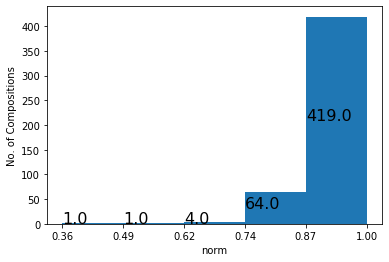
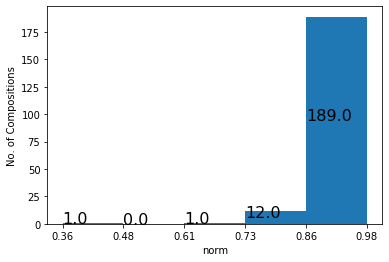
update 3_2 .md file from dev

diff --git a/3_Vocabularies/3_Lexical_and_Literary_Vocabularies.md b/3_Vocabularies/3_Lexical_and_Literary_Vocabularies.md
@@ -22,13 +22,13 @@ In order to do so we read the  [epsd2/literary][] and the [DCCLT][] datasets int
 
 From the two sets, which we call `lit_words_s` and `lexical_words_s` we eliminate all words that have not been lemmatized (unknown words or broken words). We will see in the next section that we will need unlemmatized words in a slightly more sophisticated analysis - but not here. Collections of unique elements can be visualized in a Venn diagram, that shows the two sets as two partly overlapping circles. The intersection of the two sets represents the overlap. This is done with the function `venn2` from the `matplotlib_venn` package, which allows us to select colors and define captions. The result looks like this:
 
-![venn diagram 1](viz/venn_1.png)
+<img src="viz/venn_1.png" alt="venn diagram 1" style="zoom:150%;" />
 
 The Old Babylonian lexical corpus currently has more than 4,000 distinct lemmas, of which almost 60% are shared with the literary corpus. The vocabulary of the literary corpus is only slightly larger. The number of items (lemmas) in both sets will change, because of ongoing improvements and additions in both the literary and the lexical corpus. The Venn diagram above is redrawn whenever Notebook 3_1 is run, and this will update the numbers.
 
 For a number of reasons, this is a very rough estimate and perhaps not exactly what we were looking for. A lexical entry like **udu diŋir-e gu₇-a**  (sheep eaten by a god) consists of three very common lemmas (**udu[sheep]N**, **diŋir[deity]N**, **gu[eat]V/t**). This lexical entry, therefore, will result in three matches, three correspondences between the lexical and literary vocabulary. But what about the lexical *entry*? Does the nominal phrase **udu diŋir-e gu₇-a** or, more precisely, the sequence of the lemmas **udu[sheep]N, diŋir[deity]N, gu[eat]V/t**) ever appear in a literary text? 
 
-## 	3.1.2 Lexical Entries in Literary Context
+### 	3.1.2 Lexical Entries in Literary Context
 
 In order to perform the comparison of lexical and literary vocabularies on the lexical *entry* level we first need to represent the data (lexical and literary) as lines, rather than as individual words. The line in a lexical text will become our unit of comparison by defining those as Multiple Word Expressions (or MWEs). Lines in literary texts will serve as boundaries, since we do not expect an MWE to continue from one line to the next. 
 
@@ -43,17 +43,17 @@ We can use this data to look through the literary compositions to see whether th
 
 Once this is done the lexical entries are treated the same: each space is replaced by an underscore. Now we have the same two sets of data in a slightly different representation and we can do essentially the same analysis as we did above by creating sets (called `lit_words_s2` and `lexical_words_s2`) and then visualize those sets in a Venn diagram: 
 
-![venn diagram 2](viz/venn_2.png)
+<img src="viz/venn_2.png" alt="venn diagram 2" style="zoom:150%;" />
 
 We see that this approach essentially doubles the number of unique elements on the lexical side; on the literary side the increase is much less drastic. It turns out that many of the lexical entries (more than 65%) never appear as such in the literary corpus.
 
-## 3.1.3. Add them Up
+### 3.1.3. Add them Up
 
 Finally we can add the two approaches discussed above into a single Venn diagram. There are words that appear as modifiers in lexical *entries* but never appear on their own in a lexical composition. Similarly, there are words in the literary corpus that occur in phrases known from the lexical corpus, but never outside of such phrases (we will see examples below). Such words, one may argue, potentially add to the intersection between the lexical and literary corpus, but are not represented in the second Venn diagram.
 
 In order to do so we create the *union* of the first lexical set (individual words) and the second one (lexical expressions), and the same for the literary corpus and then draw a new Venn diagram. The union of two sets is a new set, with all the unique elements from the two original sets. The union sets are called `lit_words_s3` and `lexical_words_s3`.
 
-![venn diagram 3](viz/venn_3.png)
+<img src="viz/venn_3.png" alt="venn diagram 3" style="zoom:150%;" />
 
 The new diagram shows some increase on both sides, and a little increase in overlap as well - but the change is not very dramatic.
 
@@ -103,13 +103,13 @@ In order to research the relationship between lexical and literary material in m
 
 Longer texts will have more vocabulary items (and Multiple Word Expressions) in common with the lexical corpus than shorter texts, but that does not mean much. For that reason we will look at measures of *lexical richness* and ask: are compositions that use a richer lexicon more likely to utilize lemmas found in the lexical corpus than compositions with a lower lexical richness rank? 
 
-This line of research has a pedigree that goes back to an article by M. Civil entitled: "Feeding Dumuzi's Sheep: the Lexicon as a Source of Literary Inspiration" (in *Language, Literature, and History: Philological and Historical Studies presented to Erica Reiner*, F. Rochberg, Ed. American Oriental Society, 1987). In this article, Civil argued that various Sumerian literary texts use enumeration, listing words from a particular semantic field, often with explanatory or interpretative notes. Compositions that include such sections are [*Nanše and the Birds*](http://etcsl.orinst.ox.ac.uk/cgi-bin/etcsl.cgi?text=c.4.14.3&display=Crit&charenc=gcirc#) (bird names), [*Home of the Fish*](http://etcsl.orinst.ox.ac.uk/cgi-bin/etcsl.cgi?text=c.5.9.1&display=Crit&charenc=gcirc#) (fish names), [*Dumuzid Inana W*](http://etcsl.orinst.ox.ac.uk/cgi-bin/etcsl.cgi?text=c.4.08.23&display=Crit&charenc=gcirc#) (plant names; this is the text edited by Civil in his 1987 article), *Ninurta's Fields* (field names), [*Išme-Dagan and Enlil's Chariot*](http://etcsl.orinst.ox.ac.uk/cgi-bin/etcsl.cgi?text=c.2.5.4.09&display=Crit&charenc=gcirc#) (names of chariot parts), *Lipit Eštar and the Plow* (names of parts of a plow), [*Šulgi R*](http://etcsl.orinst.ox.ac.uk/cgi-bin/etcsl.cgi?text=c.2.4.2.18&display=Crit&charenc=gcirc#) (boat parts), and [*Ninurta's Exploits*](http://etcsl.orinst.ox.ac.uk/cgi-bin/etcsl.cgi?text=c.1.6.2&display=Crit&charenc=gcirc#) (stone names). Each of the examples listed above addresses an area of the lexicon (birds, fish, field names, etc.) to which (part of) a lexical composition is specifically dedicated. Whether, in such cases, the source of literary inspiration was the Sumerian lexicon at large, or, more specifically, the particular lexical composition listing such names remains to be seen in each particular case. 
+This line of research has a pedigree that goes back to an article by M. Civil entitled: "Feeding Dumuzi's Sheep: the Lexicon as a Source of Literary Inspiration" (in *Language, Literature, and History: Philological and Historical Studies presented to Erica Reiner*, F. Rochberg, Ed. American Oriental Society, 1987). In this article, Civil argued that various Sumerian literary texts use enumeration, listing words from a particular semantic field, often with explanatory or interpretative notes. Compositions that include such sections are [*Nanše and the Birds*](http://etcsl.orinst.ox.ac.uk/cgi-bin/etcsl.cgi?text=c.4.14.3&display=Crit&charenc=gcirc#) (bird names), [*Home of the Fish*](http://etcsl.orinst.ox.ac.uk/cgi-bin/etcsl.cgi?text=c.5.9.1&display=Crit&charenc=gcirc#) (fish names), [*Dumuzid Inana W*](http://etcsl.orinst.ox.ac.uk/cgi-bin/etcsl.cgi?text=c.4.08.23&display=Crit&charenc=gcirc#) (plant names; this is the text edited by Civil in his 1987 article), *Ninurta's Fields* (field names), [*Išme-Dagan and Enlil's Chariot*](http://etcsl.orinst.ox.ac.uk/cgi-bin/etcsl.cgi?text=c.2.5.4.09&display=Crit&charenc=gcirc#) (names of chariot parts), *Lipit Eštar and the Plow* (names of parts of a plow), [*Šulgi R*](http://etcsl.orinst.ox.ac.uk/cgi-bin/etcsl.cgi?text=c.2.4.2.18&display=Crit&charenc=gcirc#) (boat parts), and [*Ninurta's Exploits*](http://etcsl.orinst.ox.ac.uk/cgi-bin/etcsl.cgi?text=c.1.6.2&display=Crit&charenc=gcirc#) (stone names). Each of the examples listed addresses an area of the lexicon (birds, fish, field names, etc.) to which (part of) a lexical composition is specifically dedicated. Whether, in such cases, the source of literary inspiration was the Sumerian lexicon at large, or, more specifically, the particular lexical composition listing such names remains to be seen in each particular case. 
 
 For our purposes, the approach will be somewhat more generalized. The vocabulary items that will be compared between the lexical and literary corpus are not restricted to one semantic field, but will include verbs, Noun - Verb expressions, and any other type of lexeme (or Multiple Word Expression) that we may encounter.
 
-In order to address these questions we will use a Document Term Matrix (DTM): a huge matrix, where each row represents a literary composition (Document) and each column represents a lemma (Term).
+In order to address these questions we will use a Document Term Matrix (DTM): a huge table, where each row represents a literary composition (Document) and each column represents a lemma (Term).
 
-In order to do so we will use the Pandas  `groupby()` and `aggregate()` commands again to represent each composition (lexical or literary) as one long string of lemmas.  We will use the data representation where lemmas in Multiple Word Expressions are connected by underscores, so that each MWE is treated as a unit.
+In order to do so we will use the Pandas  `groupby()` and `aggregate()` commands again to represent each literary composition as one long string of lemmas.  We will use the data representation where lemmas in Multiple Word Expressions are connected by underscores, so that each MWE is treated as a unit.
 
 Once we have the data represented this way we can use `Countvecorizer()` from the `sklearn` package to create the DTM. The `Countvectorizer()` essentially vectorizes a document by counting the number of times each word appears. In an artificial example we can vectorize the sentences (documents)
 
@@ -126,31 +126,31 @@ as follows:
 
 We can now say that sentence one is represented by the vector `[1, 1, 0, 1]` and sentence two by the vector `[1, 0, 1, 1]`. That means that we can apply vector operations and vector mathematics on these two sentences - for instance we can compute their cosine similarity (0.66). In real-world examples many slots in the matrix are 0 (there are many words in the corpus that do not appear in this particular document) and many slots are higher than 1 (a word that appears in a document is likely to appear more than once). Note that each *word* (or lemma) is now also characterized by a vector, represented by the numbers in a column.
 
-There are various types of DTMs to investigate in more complex ways the relationships between the lexical and the literary vocabulary. Instead of a full DTM, in which all occurrences of all words are represented, we will first build a *binary* DTM of the literary corpus (the [epsd2/literary][] corpus), using the lexical vocabulary. Our DTM will have one row for each *literary* composition (document) and one column for each lemma or expression attested in the Old Babylonian *lexical* corpus. Because this is a *binary* DTM, each cell has either 1 or 0, to indicate that the word/expression in question does or does not appear in that particular literary composition. How many times a lemma is attested in the composition is not indicated - only *whether* it appears.
+Instead of a full DTM, in which the frequency of each lemma in each document is  represented, we will use a *binary* DTM of the literary corpus (the [epsd2/literary][] corpus), using the lexical vocabulary. Our DTM will have one row for each literary composition (document) and one column for each lemma or expression attested in the Old Babylonian lexical corpus. Because this is a *binary* DTM, each cell has either 1 or 0, to indicate that the word/expression in question does or does not appear in that particular literary composition. How many times a lemma is attested in the composition is not indicated - only *whether* it appears.
 
 Because each column represents a word in the lexical corpus, there are many columns that have only zeros (lexical entries that do not occur in [epsd2/literary][]). In terms of the Venn diagrams discussed above, the zeros in our DTM represent the blue area to the right, the ones represent the middle area (intersection of the lexical and literary vocabulary); the yellow area (words in [epsd2/literary][] that do not appear in the Old Babylonian lexical corpus) is not represented in this DTM. 
-![venn diagram 3](viz/venn_3.png)
+<img src="viz/venn_3.png" alt="venn diagram 3" style="zoom:150%;" />
 
-The main difference between the Venn diagram and the DTM is that the DTM shows in which compositions the shared words are attested. By computing the sum of a row we get an integer that represents the number of lexically attested lemmas in a particular composition, and this gives us a (numerical) measure for comparing between compositions. Not surprisingly, a longer composition, such as [Ninurta's Exploits](http://etcsl.orinst.ox.ac.uk/cgi-bin/etcsl.cgi?text=c.1.6.2&display=Crit&charenc=gcirc#) (726 lines) has more such matches than shorter ones. In fact, the very short ones (some consist of only a few words) are not very useful for the comparison - we will restrict the analysis to texts that are at least 200 words (lemmas/expressions) long. We will use a normalized measure `norm`, that is defined as the number of matches divided by the number of unique lemmas in the composition. In addition to number of matches, text length,  lexical variation (the number of  unique lemmas) and `norm` we will compute the type-token-ration (TTR), which is defined as the number of unique lemmas (types) divided by the length of the text (number of tokens).  TTR has a strong negative correlation with text length, but for compositions of approximately even length it may give some idea of the creativity vs. repetitiveness of the text. Finally we include a measure called MTLD or *Measure of Textual Lexical Diversity* which, in short, represents the mean number of words (tokens) that are needed to bring the Type Token Ration of a text down from 1 to a threshold value (usually set to 0.720).[^4] The way MTLD works is as follows. A text is read sequentially, starting at word 1. At each step the next word is added and the TTR value of the sequence is computed. When the TTR gets below the threshold value a new sequence is started. This way a text is cut into sections (called factors), each with approximately the same TTR. The mean number of words per factor is a measure of lexical diversity that is not dependent on text length. 
+The main difference between the Venn diagram and the DTM is that the DTM shows in which compositions the shared words are attested. By computing the sum of a row we get an integer that represents the number of lexically attested lemmas in a particular composition, and this gives us a (numerical) measure for comparing between compositions. Not surprisingly, a longer composition, such as [Ninurta's Exploits](http://etcsl.orinst.ox.ac.uk/cgi-bin/etcsl.cgi?text=c.1.6.2&display=Crit&charenc=gcirc#) (726 lines) has more such matches than shorter ones. In fact, the very short ones (some consist of only a few words) are not very useful for the comparison - we will restrict the analysis to texts that are above a certain threshold in length. We will use a normalized measure `norm`, that is defined as the number of matches divided by the number of unique lemmas in the composition. In addition to number of matches, text length,  lexical variation (the number of  unique lemmas) and `norm` we will compute the type-token-ration (TTR), which is defined as the number of unique lemmas (types) divided by the length of the text (number of tokens).  TTR has a strong negative correlation with text length, but for compositions of approximately even length it may give some idea of the creativity vs. repetitiveness of the text. Finally we include a measure called MTLD or *Measure of Textual Lexical Diversity* which, in short, represents the mean number of words (tokens) that are needed to bring the Type Token Ration of a text down from 1 to a threshold value (usually set to 0.720).[^4] The way MTLD works is as follows. A text is read sequentially, starting at word 1. At each step the next word is added and the TTR value of the sequence is computed. When the TTR gets below the threshold value a new sequence is started. This way a text is cut into sections (called factors), each with approximately the same TTR. The mean number of words per factor is a measure of lexical diversity that is not dependent on text length. 
 
-> It should be noted that the threshold value of 0.720 has been established empirically by analyzing texts in English, with the observation that TTR drops dramatically with the first few words (or as soon as a repeated word is encountered), but then levels out to a plateau where additional words have little impact. There is reason to assume that (literary) Sumerian may well need a different threshold value because a) literary Sumerian has very few function words (a major source of repetition in English) and b) unlike English, literary Sumerian tends to repeat phrases or entire paragraphs. The first issue might indicate the necessity of a higher threshold value for Sumerian (because there are few function words, the plateau in the drop of the TTR value should occur at a higher level), the second issue might argue for a lower threshold. More research is needed to establish the validity of this measure and/or the necessity of a different threshold value for literary Sumerian.
+> It should be noted that the threshold value of 0.720 has been established empirically by analyzing texts in English, with the observation that TTR drops dramatically with the first few words (or as soon as a repeated word is encountered), but then levels out to a plateau where additional words have little impact. There is reason to assume that (literary) Sumerian may well need a different threshold value because a) literary Sumerian has very few function words (a major source of repetition in English) and b) unlike English, literary Sumerian tends to repeat phrases or entire paragraphs. The first issue might indicate the necessity of a higher threshold value for Sumerian (because function words drag TTR down), the second issue might argue for a lower threshold. More research is needed to establish the validity of this measure and/or the necessity of a different threshold value for literary Sumerian.
 
-The table below gives the first ten compositions, sorted by `norm` (descending). Of the 97 unique lemmas that are attested in [Inana E](http://etcsl.orinst.ox.ac.uk/cgi-bin/etcsl.cgi?text=c.4.07.5&display=Crit&charenc=gcirc#) no less than 95 are also attested in the Old Babylonian lexical corpus - a `norm` score of 0.979.
+The table below gives the first ten compositions, sorted by `norm` (descending), at a minimum text length of 200 lemmas/MWEs . Of the 97 unique lemmas that are attested in [Inana E](http://etcsl.orinst.ox.ac.uk/cgi-bin/etcsl.cgi?text=c.4.07.5&display=Crit&charenc=gcirc#) no less than 95 are also attested in the Old Babylonian lexical corpus - a `norm` score of 0.979.
 
-| id_text                                           | designation                                                            |   length |   mtld |   ttr |   lex_var |   n_matches |   norm |
-|---------------------------------------------------|------------------------------------------------------------------------|----------|--------|-------|-----------|-------------|--------|
-| [Q000626](http://oracc.org/epsd2/literaryQ000626) | A tigi to Inana (Inana E)                                              |      294 | 24.177 | 0.33  |        97 |          95 |  0.979 |
-| [Q000695](http://oracc.org/epsd2/literaryQ000695) | A tigi to Nergal (Nergal C)                                            |      213 | 60.664 | 0.455 |        97 |          95 |  0.979 |
-| [P346203](http://oracc.org/epsd2/literaryP346203) | ETCSL 2.05.04.23 Ishme-Dagan W (witness)                               |      215 | 84.494 | 0.581 |       125 |         121 |  0.968 |
-| [Q000818](http://oracc.org/epsd2/literaryQ000818) | Proverbs: collection 26                                                |      242 | 99.13  | 0.645 |       156 |         151 |  0.968 |
-| [Q000785](http://oracc.org/epsd2/literaryQ000785) | The three ox-drivers from Adab                                         |      268 | 21.743 | 0.34  |        91 |          88 |  0.967 |
-| [Q000756](http://oracc.org/epsd2/literaryQ000756) | The advice of a supervisor to a younger scribe (Edubba C)              |      404 | 95.519 | 0.522 |       211 |         203 |  0.962 |
-| [Q000494](http://oracc.org/epsd2/literaryQ000494) | An adab to An for Ur-Ninurta (Ur-Ninurta E)                            |      215 | 66.458 | 0.609 |       131 |         126 |  0.962 |
-| [Q000384](http://oracc.org/epsd2/literaryQ000384) | An adab to Bau for Luma (Luma A)                                       |      232 | 20.212 | 0.336 |        78 |          75 |  0.962 |
-| [Q000433](http://oracc.org/epsd2/literaryQ000433) | A šir-namgala to Mešlamta-ea and Lugal-era for Ibbi-Suen (Ibbi-Suen B) |      285 | 52.473 | 0.435 |       124 |         119 |  0.96  |
-| [Q000361](http://oracc.org/epsd2/literaryQ000361) | Gilgameš and Aga                                                       |      471 | 39.397 | 0.363 |       171 |         164 |  0.959 |
+| id_text                                           | designation                                                  | length | mtld   | ttr   | lex_var | n_matches | norm  |
+| ------------------------------------------------- | ------------------------------------------------------------ | ------ | ------ | ----- | ------- | --------- | ----- |
+| [Q000695](http://oracc.org/epsd2/literaryQ000695) | A tigi to Nergal (Nergal C)                                  | 213    | 60.664 | 0.455 | 97      | 95        | 0.979 |
+| [Q000626](http://oracc.org/epsd2/literaryQ000626) | A tigi to Inana (Inana E)                                    | 294    | 24.177 | 0.33  | 97      | 95        | 0.979 |
+| [P346203](http://oracc.org/epsd2/literaryP346203) | ETCSL 2.05.04.23 Ishme-Dagan W (witness)                     | 215    | 84.494 | 0.581 | 125     | 121       | 0.968 |
+| [Q000818](http://oracc.org/epsd2/literaryQ000818) | Proverbs: collection 26                                      | 242    | 99.13  | 0.645 | 156     | 151       | 0.968 |
+| [Q000785](http://oracc.org/epsd2/literaryQ000785) | The three ox-drivers from Adab                               | 268    | 21.743 | 0.34  | 91      | 88        | 0.967 |
+| [Q000384](http://oracc.org/epsd2/literaryQ000384) | An adab to Bau for Luma (Luma A)                             | 232    | 20.212 | 0.336 | 78      | 75        | 0.962 |
+| [Q000494](http://oracc.org/epsd2/literaryQ000494) | An adab to An for Ur-Ninurta (Ur-Ninurta E)                  | 215    | 66.458 | 0.609 | 131     | 126       | 0.962 |
+| [Q000756](http://oracc.org/epsd2/literaryQ000756) | The advice of a supervisor to a younger scribe (Edubba C)    | 404    | 95.519 | 0.522 | 211     | 203       | 0.962 |
+| [Q000433](http://oracc.org/epsd2/literaryQ000433) | A šir-namgala to Mešlamta-ea and Lugal-era for Ibbi-Suen (Ibbi-Suen B) | 285    | 52.473 | 0.435 | 124     | 119       | 0.96  |
+| [Q000361](http://oracc.org/epsd2/literaryQ000361) | Gilgameš and Aga                                             | 471    | 39.397 | 0.363 | 171     | 164       | 0.959 |
 
-> Note that changes in the [epsd2/literary][] and [DCCLT][] data may change the numbers and the arrangement of the table.
+> Note that changes in the [epsd2/literary][] and [DCCLT][] data may change the numbers and the arrangement of the table. The minimum 0f 200 words may be on the high side. The Notebook uses a default minimum of 50, but this can be adjusted by the user.
 
 In the notebook one may manipulate the table to sort it by different columns (ascending or descending) or by displaying a larger or smaller number of rows. Looking at maximum, minimum, median, and mean of the `norm` variable may give us some idea of how the numbers are distributed.
 
@@ -168,7 +168,7 @@ Name: norm, dtype: float64
 
 The 25%, 50%, and 75% point are all very close to each other - the great majority of values are on the (very) high side of the scale, with only a few outliers at the bottom. A histogram of the values visualizes that: 
 
-![Histogram of norm](viz/hist_norm.png)
+<img src="viz/hist_norm.png" alt="Histogram of norm" style="zoom:150%;" />
 
 Looking at the bottom of the table we find that the compositions ranking lowest on `norm` are the following
 
@@ -185,7 +185,7 @@ Looking at the bottom of the table we find that the compositions ranking lowest 
 | [Q000379](http://oracc.org/epsd2/literaryQ000379) | The lament for Ur                                                    |     2284 | 23.547 | 0.229 |       524 |         444 |  0.847 |
 | [Q000651](http://oracc.org/epsd2/literaryQ000651) | A kungar to Inana (Dumuzid-Inana T)                                  |      236 | 16.243 | 0.479 |       113 |          96 |  0.85  |
 
-[*The Sumerian King List*](http://etcsl.orinst.ox.ac.uk/cgi-bin/etcsl.cgi?text=c.2.1.1&display=Crit&charenc=gcirc#) is the outlier with only 86 matches on 339 unique lemmas and a `norm` score of 0.36. [*The Sumerian King List*](http://etcsl.orinst.ox.ac.uk/cgi-bin/etcsl.cgi?text=c.2.1.1&display=Crit&charenc=gcirc#) is a rather repetitive composition (note its low `mtld`score) that enumerates the names of kings and names of cities, recording regnal years with, occasionally, a brief anecdote about one of those kings. Proper nouns, including royal names and city names, are currently underrepresented in the (lemmatized) lexical corpus. The proper nouns in [*The Sumerian King List*](http://etcsl.orinst.ox.ac.uk/cgi-bin/etcsl.cgi?text=c.2.1.1&display=Crit&charenc=gcirc#) explain the large number of lemmas not attested in [DCCLT][]. The next composition ([*The Rulers of Lagaš*](http://etcsl.orinst.ox.ac.uk/cgi-bin/etcsl.cgi?text=c.2.1.2&display=Crit&charenc=gcirc#)) has a `norm`score that is significantly higher (note that the second bin in the histogram is empty), but still low comparatively speaking. [*The Rulers of Lagaš*](http://etcsl.orinst.ox.ac.uk/cgi-bin/etcsl.cgi?text=c.2.1.2&display=Crit&charenc=gcirc#) is moulded on the pattern of the [*The Sumerian King List*](http://etcsl.orinst.ox.ac.uk/cgi-bin/etcsl.cgi?text=c.2.1.1&display=Crit&charenc=gcirc#) and equally features a relatively large number of of proper nouns.
+[*The Sumerian King List*](http://etcsl.orinst.ox.ac.uk/cgi-bin/etcsl.cgi?text=c.2.1.1&display=Crit&charenc=gcirc#) is the outlier with only 86 matches on 239 unique lemmas and a `norm` score of 0.36. [*The Sumerian King List*](http://etcsl.orinst.ox.ac.uk/cgi-bin/etcsl.cgi?text=c.2.1.1&display=Crit&charenc=gcirc#) is a rather repetitive composition (note its low `mtld`score) that enumerates the names of kings and names of cities, recording regnal years with, occasionally, a brief anecdote about one of those kings. Proper nouns, including royal names and city names, are currently underrepresented in the (lemmatized) lexical corpus. The proper nouns in [*The Sumerian King List*](http://etcsl.orinst.ox.ac.uk/cgi-bin/etcsl.cgi?text=c.2.1.1&display=Crit&charenc=gcirc#) explain the large number of lemmas not attested in [DCCLT][]. The next composition ([*The Rulers of Lagaš*](http://etcsl.orinst.ox.ac.uk/cgi-bin/etcsl.cgi?text=c.2.1.2&display=Crit&charenc=gcirc#)) has a `norm`score that is significantly higher, but still low comparatively speaking. [*The Rulers of Lagaš*](http://etcsl.orinst.ox.ac.uk/cgi-bin/etcsl.cgi?text=c.2.1.2&display=Crit&charenc=gcirc#) is molded on the pattern of the [*The Sumerian King List*](http://etcsl.orinst.ox.ac.uk/cgi-bin/etcsl.cgi?text=c.2.1.1&display=Crit&charenc=gcirc#) and equally features a relatively large number of of proper nouns.
 
 After these two lowest scoring texts, the rest of the [epsd2/literary][] corpus scores at least 0.75, with a median value of 0.913 and a mean of 0.906. In the great majority of cases more than ninety percent of the words and expressions in a literary composition are represented in the lexical corpus. Some of the non-overlap between the two corpora, moreover, may be explained by Proper Nouns, or the use of Emesal (which is very rare in the lexical corpus).
 
@@ -195,7 +195,6 @@ How is it possible to arrive at such different percentages, using the same data 
 
 # Note
 > What follows should bear out the hypothesis that the intersection of lex/lit contains (on average) the more common lexical items. It should also include a concrete example of a literary text with the shared and non-shared vocabulary. Finally, it should include a discussion of Emesal, its role in literature and its place in the lexical tradition.
-
 
 
 [^1]: 	N. Veldhuis, *Religion, Literature, and Scholarship: The Sumerian Composition "Nanše and the Birds"*. Cuneiform Monographs 22. Leiden: Brill 2004.
